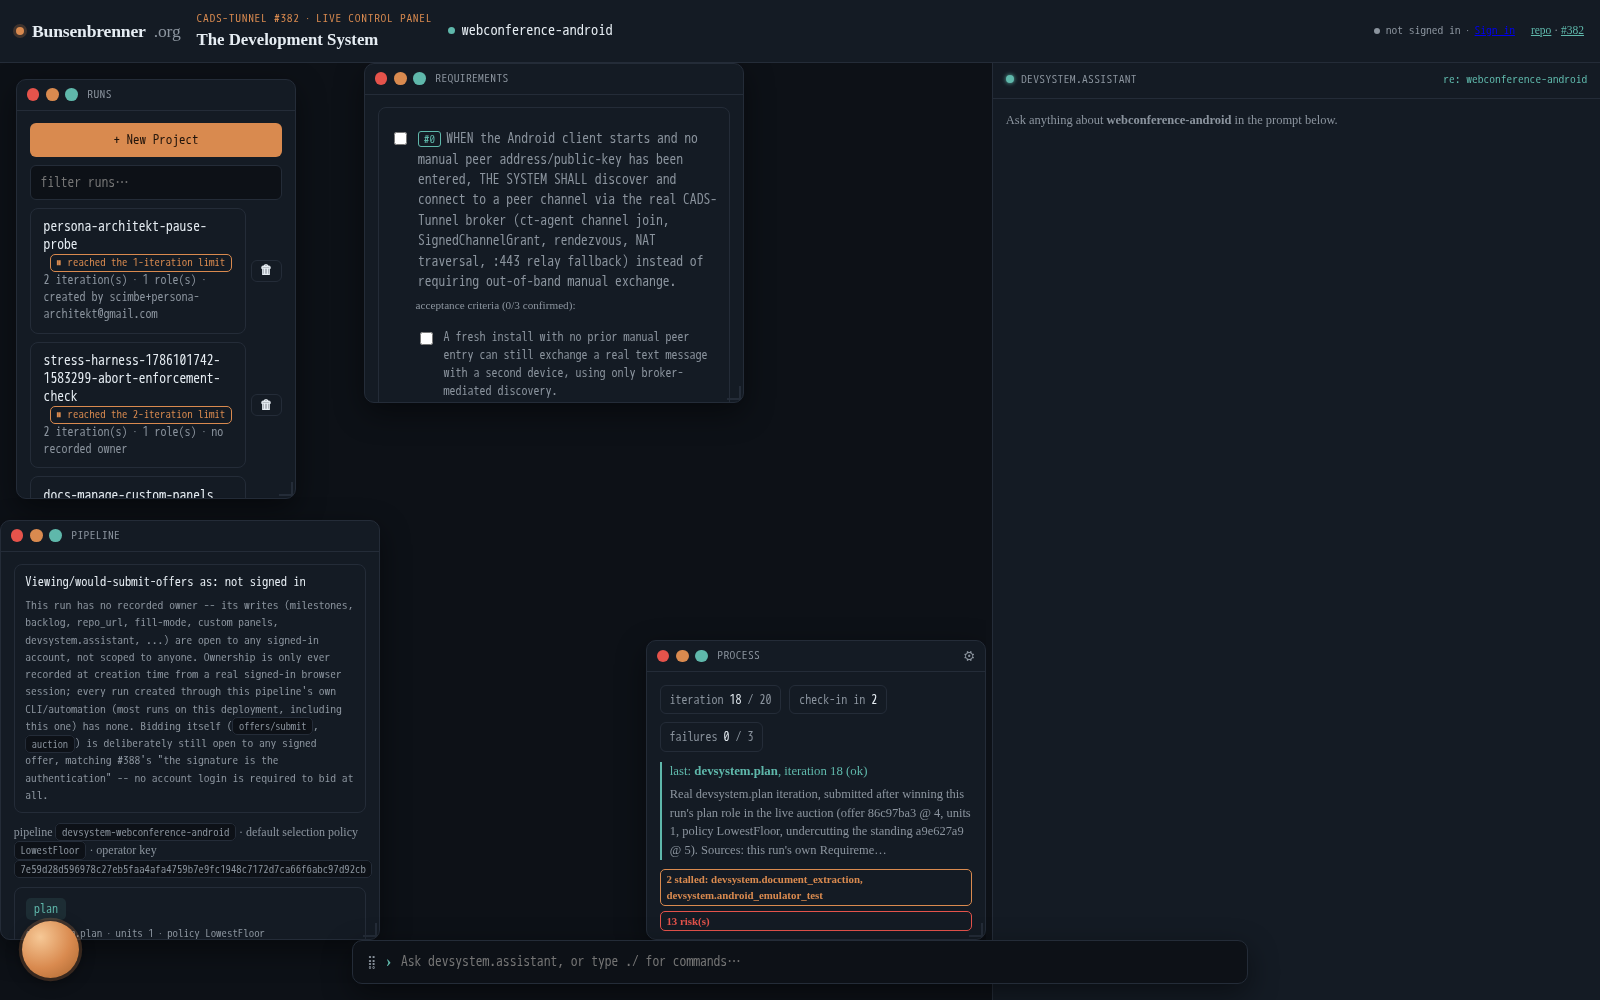
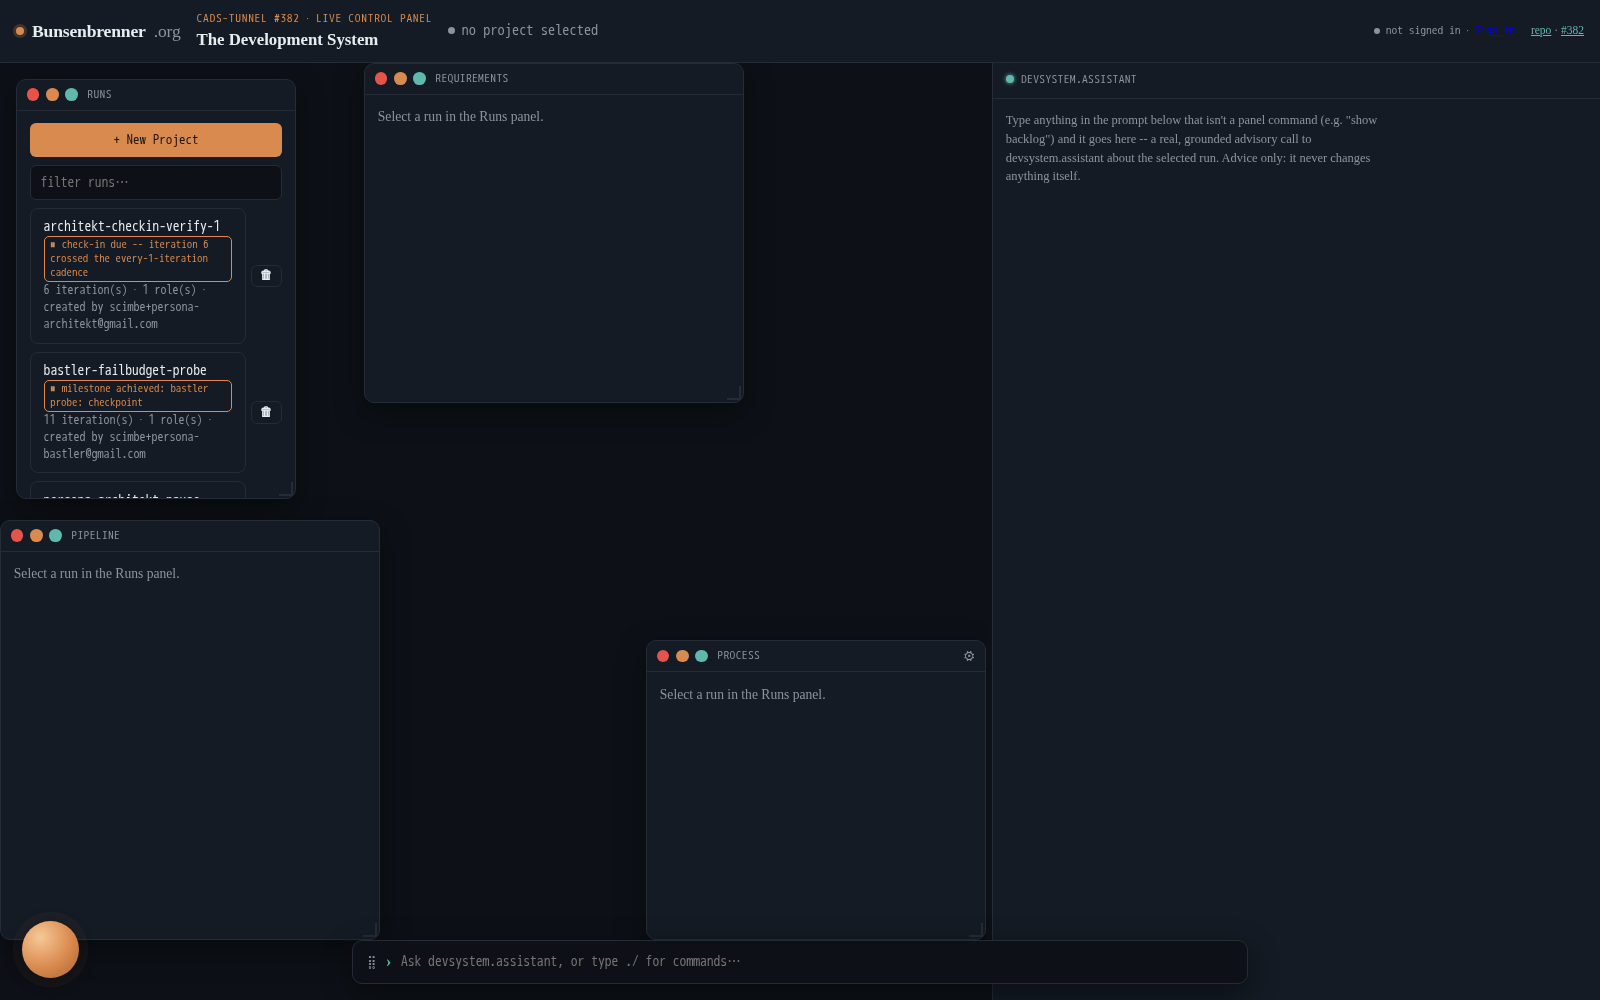
tutorial: fix the stale landing screenshot and text (issue #58's fixes)
CADS-devsystem@405bf79 + 79ad229 (2026-08-09) changed the real,
current first-visit behavior this tutorial's own opening screenshot
showed: a fresh visit no longer auto-selects an arbitrary run (the
old 01-landing.png showed webconference-android's own real data
already loaded, with bare panel titles) -- now it genuinely selects
nothing, "no project selected" in the top bar, real "Select a run"
placeholders in every run-scoped panel, and once a run IS selected,
every panel's own title bar names it directly.

Replaced the screenshot with a real capture of the actual current
first-visit state (captured live via scripts/simulated-user.sh
against the redeployed container, localStorage cleared first to
force a genuinely fresh visit -- not simulated), and updated the
surrounding text to describe what's actually shown plus the new
panel-title behavior readers will see in the very next section.

Hermetic Jekyll build clean.

Claude-Session: https://claude.ai/code/session_018FkngvdKnmVcAT84EZe7Ur

diff --git a/_tutorials/first-run.md b/_tutorials/first-run.md
@@ -23,9 +23,13 @@ is its own independently movable/resizable window. On your very first visit, onl
 default — enough to get oriented without being overwhelmed:
 
 <figure>
-<img src="{{ '/assets/img/tutorial-first-run/01-landing.png' | relative_url }}" alt="The GUI landing page with a small default set of panels open: Runs, Process, Pipeline, Requirements, and a small orange dot fixed in the bottom-left corner">
-<figcaption>Runs, Process, Pipeline, and Requirements are open by default. Every other panel — Backlog, Milestones, Roles, Check-in, and so on — is one click away on the orange dot in the bottom-left corner. See <a href="{{ '/how-to/navigate-with-the-panel-launcher/' | relative_url }}">Open panels with the launcher</a> for what it does and why panels aren't all the same size.</figcaption>
+<img src="{{ '/assets/img/tutorial-first-run/01-landing.png' | relative_url }}" alt="The GUI landing page with a small default set of panels open, all reading 'Select a run in the Runs panel', and the top bar reading 'no project selected'">
+<figcaption>Runs, Process, Pipeline, and Requirements are open by default. A genuinely fresh visit like this one selects no run at all — "no project selected" in the top bar, and every run-scoped panel says so plainly rather than guessing which project you meant (real gap closed 2026-08-09, <a href="https://github.com/scimbe/CADS-devsystem/issues/58">issue #58</a>: a reload used to silently pick an arbitrary run out of the real list). Every other panel — Backlog, Milestones, Roles, Check-in, and so on — is one click away on the orange dot in the bottom-left corner. See <a href="{{ '/how-to/navigate-with-the-panel-launcher/' | relative_url }}">Open panels with the launcher</a> for what it does and why panels aren't all the same size.</figcaption>
 </figure>
+
+Once you do select or create a run (next section), every run-scoped panel's own title bar names it
+directly — "REQUIREMENTS — your-run-id" — not just the highlighted row in the Runs panel, so it's
+always visible which project a write is about to land in.
 
 ## 2. Create a new project
 
